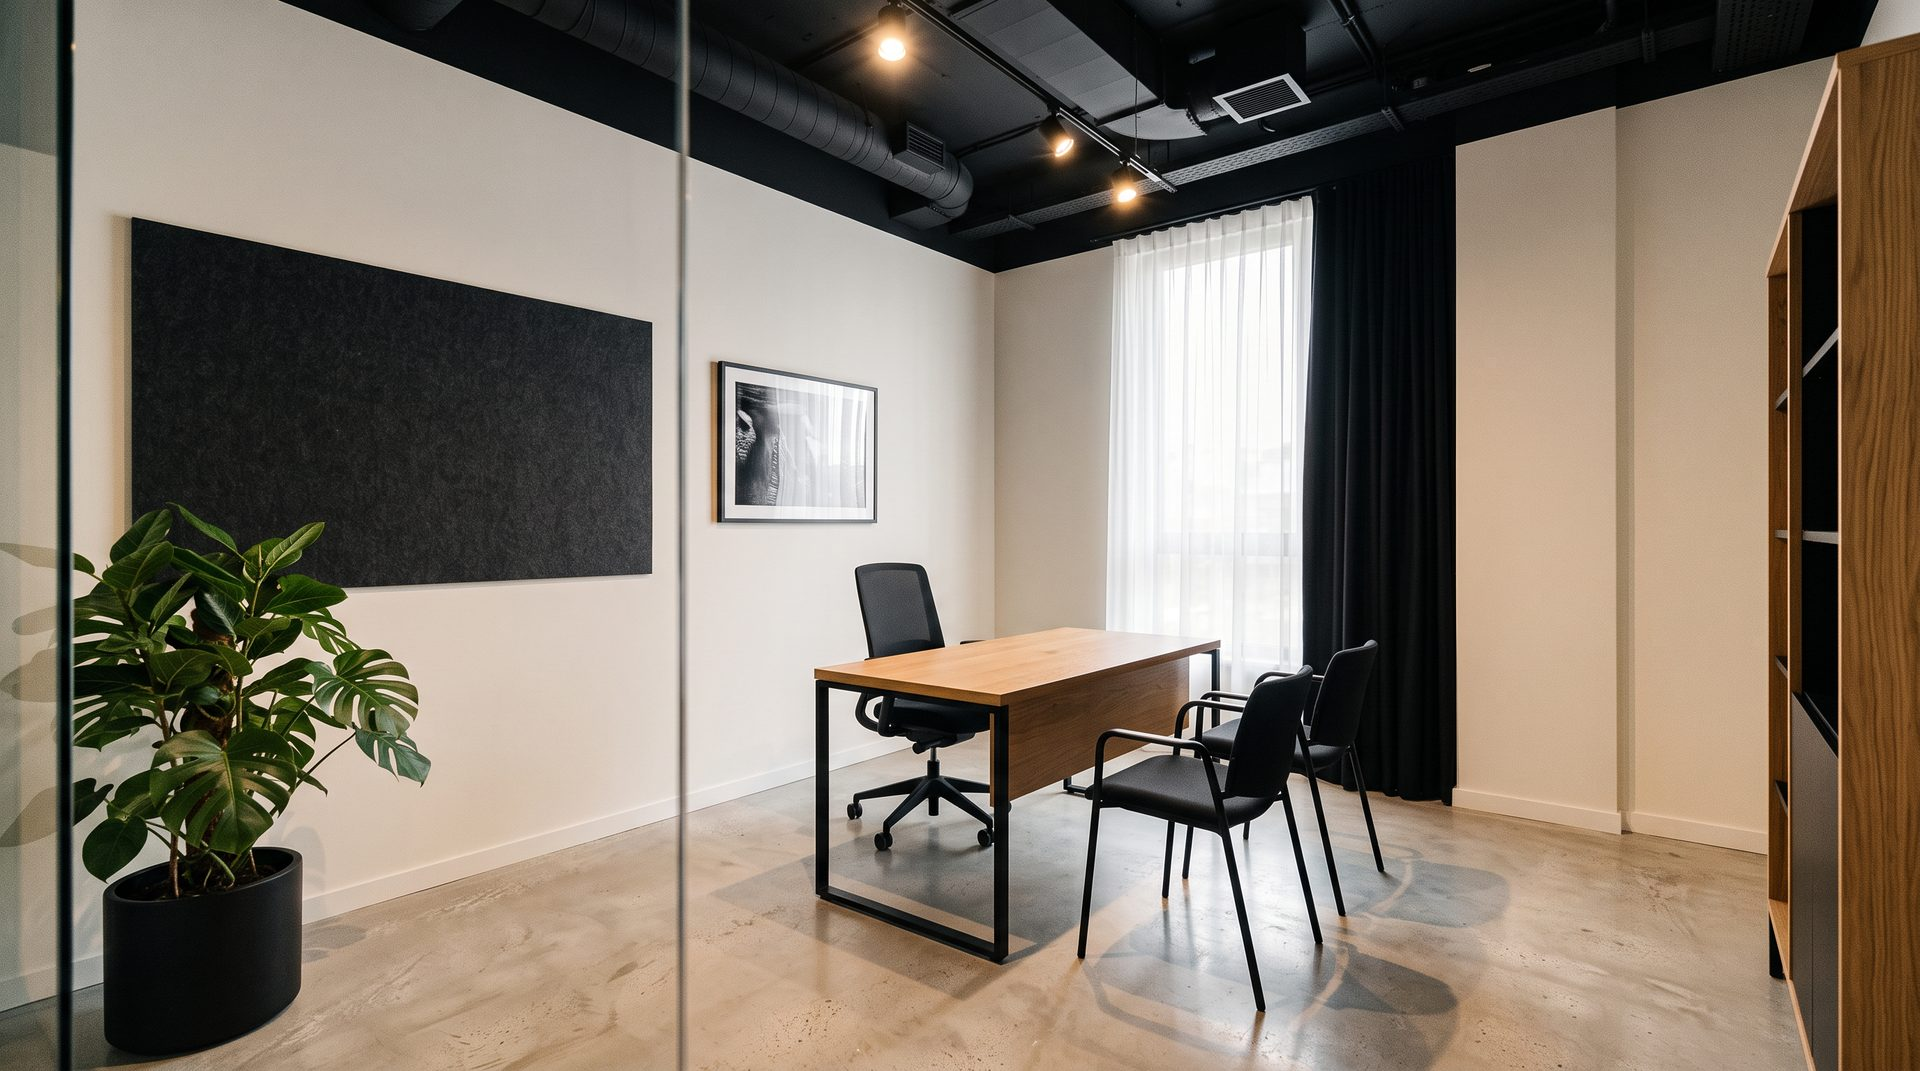
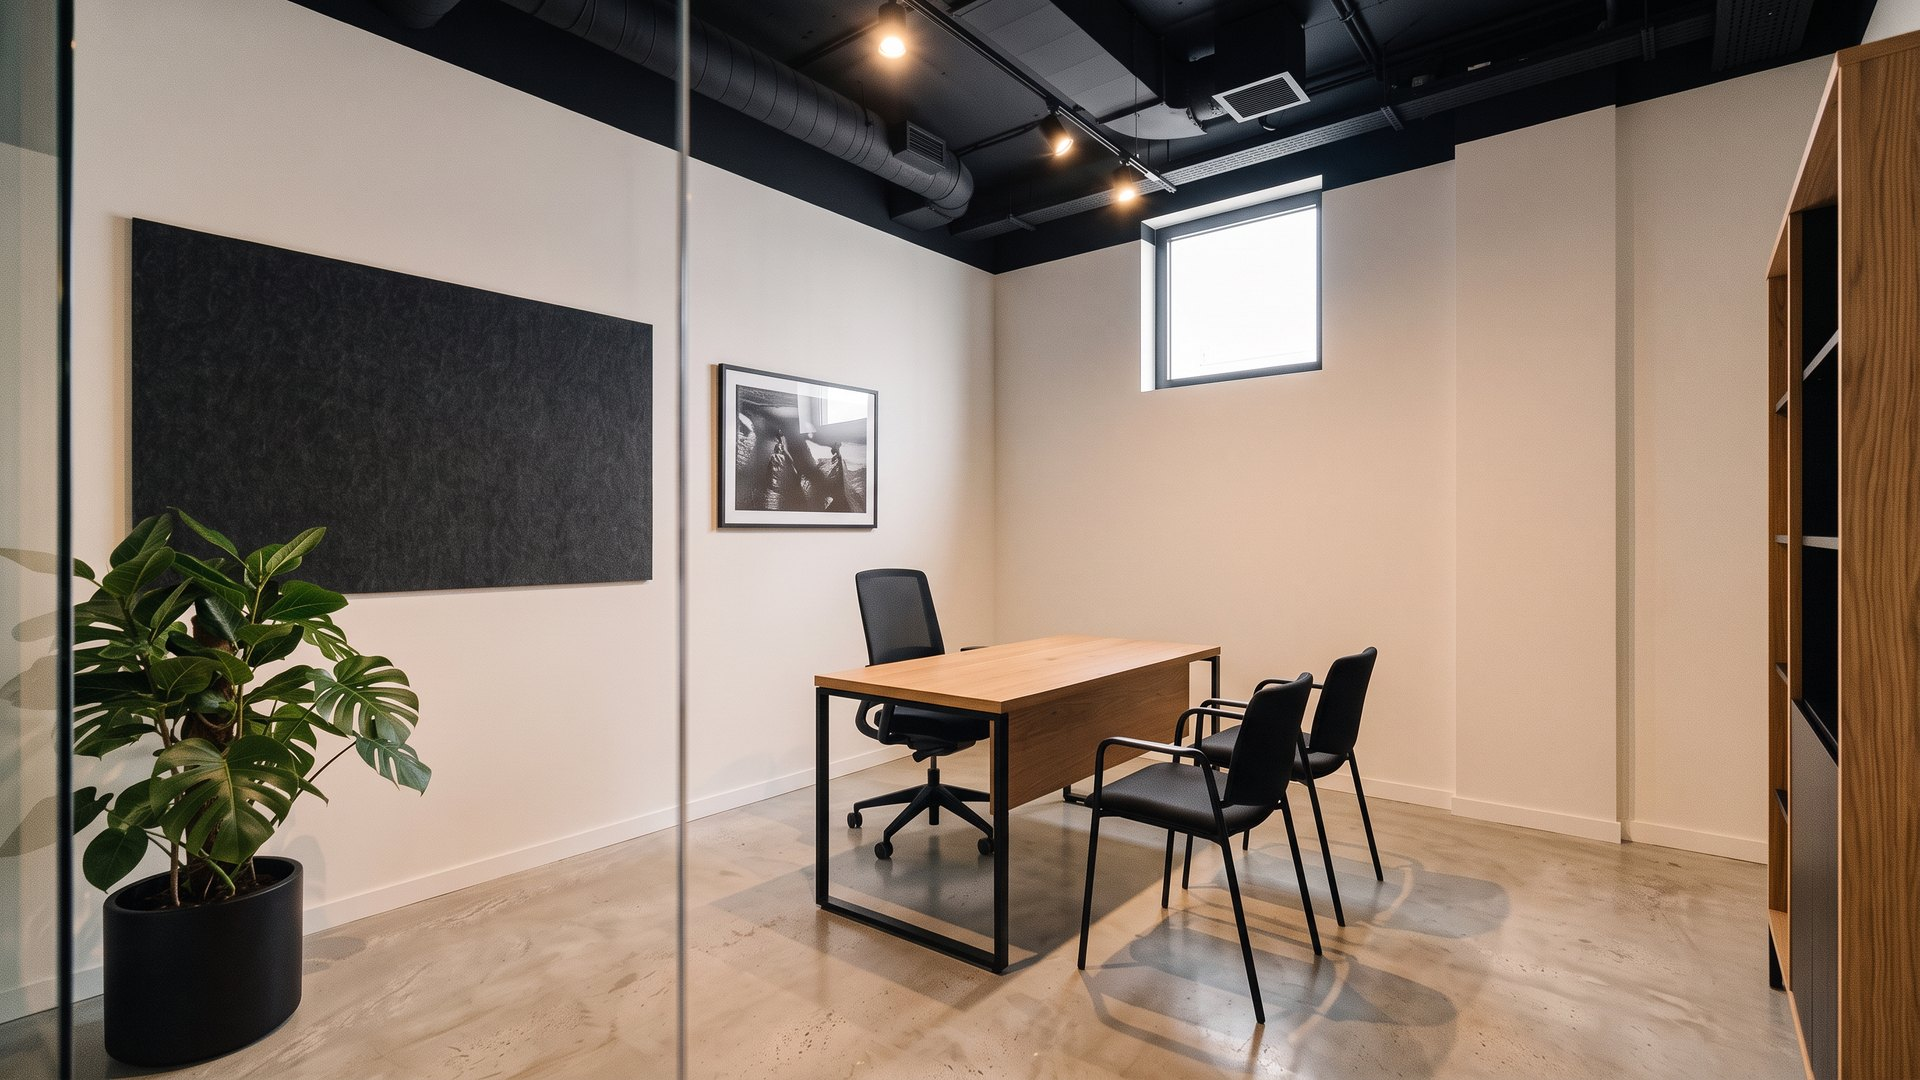
Plano en tonos pastel, botón de pantalla completa en el visor 3D y render de la oficina con ventana alta
Claude-Session: https://claude.ai/code/session_01VpsP89JKDyhT3TceQQtrQt

diff --git a/index.html b/index.html
@@ -48,11 +48,21 @@ h2{font-family:var(--font-display);font-weight:600;font-size:20px;margin:0 0 12p
 .chk{display:inline-flex;gap:6px;align-items:center;font-size:13px;color:var(--ink-2);cursor:pointer}
 .chk input{accent-color:var(--accent)}
 .lbl{font-family:var(--font-mono);font-size:11px;color:var(--ink-2);text-transform:uppercase;letter-spacing:.05em}
-#plan{display:block;width:100%;height:auto;max-height:78vh;touch-action:manipulation}
+#plan{display:block;width:100%;height:auto;max-height:78vh;touch-action:manipulation;background:#FAF9F5;--prod:#F6E3A3;--work:#C8D3F5;--serv:#E2E4EF;--circ:#F3F4F9;--open:#E7EBF9;--wall:#1B1E3D;--wall-new:#5A6091;--wood:#D9BC8C;--soft:#9A9FC0;--green:#9CC58A;--glass:#4E6BD0;--ink:#1B1E3D;--ink-2:#4A4F78;--sheet:#FFFFFF;--rule:#D3D6E6}
+.legend{--prod:#F6E3A3;--work:#C8D3F5;--serv:#E2E4EF;--circ:#F3F4F9;--open:#E7EBF9;--wall:#1B1E3D;--wall-new:#5A6091;--wood:#D9BC8C;--soft:#9A9FC0;--green:#9CC58A;--glass:#4E6BD0}
+.legend .sw{border-color:#6A6FA0}
 #three{width:100%;display:none;flex-direction:column}
 #cv3d{position:relative;aspect-ratio:16/9;width:100%;touch-action:none}
 #cv3d canvas{display:block;width:100%;height:100%}
 .bar3d{display:flex;flex-wrap:wrap;gap:10px 14px;align-items:center;padding:10px 12px;border-bottom:1px solid var(--rule)}
+.fsbtn{margin-left:auto;display:inline-flex;align-items:center;gap:7px;font:inherit;font-size:13px;padding:7px 12px;border-radius:9px;border:1px solid var(--rule);background:var(--sheet-2);color:var(--ink);cursor:pointer}
+.fsbtn:hover{border-color:var(--sun)} .fsbtn:focus-visible{outline:2px solid var(--sun);outline-offset:2px}
+.fsbtn .fs-off{display:none} #three.fs .fsbtn .fs-on{display:none} #three.fs .fsbtn .fs-off{display:inline}
+#three.fs{position:fixed;inset:0;z-index:1000;background:var(--paper);width:100vw;height:100vh;height:100dvh;padding:env(safe-area-inset-top) env(safe-area-inset-right) env(safe-area-inset-bottom) env(safe-area-inset-left)}
+#three.fs #cv3d{aspect-ratio:auto!important;height:auto!important;min-height:0!important;flex:1 1 auto}
+#three.fs .views3d{flex:none}
+body.fs-lock{overflow:hidden}
+@media(max-width:640px){.fsbtn span{display:none}.fsbtn{padding:7px 9px}}
 .views3d{display:flex;gap:8px;overflow-x:auto;padding:10px 12px;border-top:1px solid var(--rule);scrollbar-width:none}.views3d::-webkit-scrollbar{display:none}
 .views3d button{flex:none;font:inherit;font-size:13px;padding:7px 12px;border-radius:6px;border:1px solid var(--rule);background:var(--sheet);color:var(--ink);cursor:pointer}
 .hint3d{position:absolute;right:10px;bottom:12px;font-size:12px;color:var(--ink-2);background:var(--sheet);padding:3px 8px;border-radius:6px;border:1px solid var(--rule)}
@@ -157,6 +167,7 @@ ul.notes li span{color:var(--ink-2)}
           <button id="n-orbit" aria-pressed="true">Maqueta</button><button id="n-walk" aria-pressed="false">Caminar</button><button id="n-tour" aria-pressed="false">Recorrido guiado</button>
         </div>
         <label class="chk" id="ceilwrap"><input type="checkbox" id="ceil" checked> Ductos y parrillas</label>
+        <button id="fs3d" class="fsbtn" type="button" aria-pressed="false" aria-label="Pantalla completa" title="Pantalla completa"><svg width="16" height="16" viewBox="0 0 16 16" fill="none" stroke="currentColor" stroke-width="1.8" stroke-linecap="round"><path class="fs-on" d="M1.5 5.5v-4h4M10.5 1.5h4v4M14.5 10.5v4h-4M5.5 14.5h-4v-4"/><path class="fs-off" d="M5.5 1.5v4h-4M14.5 5.5h-4v-4M10.5 14.5v-4h4M1.5 10.5h4v4"/></svg><span>Pantalla completa</span></button>
       </div>
       <div id="cv3d">
         <div class="caption3d" id="cap3d" hidden><b id="capT"></b><span id="capD"></span></div>
@@ -225,7 +236,7 @@ ul.notes li span{color:var(--ink-2)}
 const DATA = {"W": 7.78, "D": 14.0, "existWalls": [[-0.2, -1.4, 0, 12.65], [-0.2, 13.65, 0, 14.2], [7.78, -1.4, 7.98, 14.2], [-0.2, -1.4, 7.98, -1.2], [-0.2, -0.2, 1.53, 0], [6.37, -0.2, 7.78, 0], [-0.2, 14.0, 6.88, 14.2], [0, 4.3, 0.1, 4.7], [0, 11.53, 0.15, 12.3], [7.62, 11.53, 7.78, 12.3], [6.37, 0, 6.57, 0.74], [6.37, 1.5, 6.57, 4.27], [6.57, 2.05, 7.78, 2.25], [7.26, 4.06, 7.78, 4.27], [4.71, 1.5, 4.91, 3.76], [4.71, 3.56, 6.37, 3.76], [5.65, 1.5, 6.37, 1.7], [6.21, 8.52, 7.78, 8.72], [6.21, 8.72, 6.41, 9.21], [6.21, 9.9, 7.78, 10.11], [0, 9.95, 3.0, 10.15]], "glass": [[2.53, -0.17, 6.37, -0.03], [-0.17, 12.65, -0.03, 13.65]], "balcony": [0, -1.2, 7.78, -0.2], "existDoors": [{"gap": [1.53, -0.2, 2.53, 0], "hinge": [1.56, -0.2], "r": 0.95, "a0": 0, "a1": -90}, {"gap": [6.37, 0.74, 6.57, 1.5], "hinge": [6.57, 1.5], "r": 0.74, "a0": -90, "a1": 0}, {"gap": [6.57, 4.06, 7.26, 4.27], "hinge": [6.6, 4.17], "r": 0.66, "a0": 0, "a1": -90}, {"gap": [6.21, 9.21, 6.41, 9.9], "hinge": [6.31, 9.9], "r": 0.67, "a0": -90, "a1": 0}, {"gap": [6.88, 14.0, 7.78, 14.2], "hinge": [7.73, 14.0], "r": 0.85, "a0": 180, "a1": 270}], "fixtures": [{"t": "wc", "r": [7.3, 1.62, 7.78, 2.02]}, {"t": "wc", "r": [7.3, 2.42, 7.78, 2.82]}, {"t": "wc", "r": [7.3, 8.82, 7.78, 9.22]}, {"t": "sink", "r": [7.35, 0.25, 7.78, 0.75]}, {"t": "sink", "r": [7.3, 3.2, 7.78, 3.75]}, {"t": "sink", "r": [7.35, 9.35, 7.78, 9.8]}], "prop": {"walls": [{"r": [0, 4.7, 4.91, 4.8], "k": "glass"}, {"r": [4.91, 3.76, 5.01, 3.86], "k": "glass"}, {"r": [4.91, 4.66, 5.01, 4.8], "k": "glass"}, {"r": [4.91, 4.8, 5.01, 8.85], "k": "glass"}, {"r": [4.91, 9.85, 5.01, 9.95], "k": "glass"}, {"r": [3.0, 9.95, 5.01, 10.15], "k": "glass"}, {"r": [3.6, 10.15, 3.7, 10.3], "k": "glass"}, {"r": [3.6, 11.15, 3.7, 14.0], "k": "glass"}, {"r": [6.21, 5.1, 7.78, 5.2], "k": "glass"}, {"r": [6.21, 5.2, 6.31, 7.4], "k": "glass"}, {"r": [6.21, 8.25, 6.31, 8.52], "k": "glass"}], "doors": [{"gap": [4.91, 3.86, 5.01, 4.66], "hinge": [4.91, 4.66], "r": 0.8, "a0": -90, "a1": -180, "glass": false}, {"gap": [4.91, 8.85, 5.01, 9.85], "hinge": [4.91, 9.85], "r": 1.0, "a0": -90, "a1": -180, "glass": true}, {"gap": [3.6, 10.3, 3.7, 11.15], "hinge": [3.6, 10.3], "r": 0.85, "a0": 90, "a1": 180, "glass": true}, {"gap": [6.21, 7.4, 6.31, 8.25], "hinge": [6.31, 8.25], "r": 0.85, "a0": -90, "a1": 0, "glass": false}], "rooms": [{"id": "musica", "name": "Sala de m\u00fasica y podcast", "type": "prod", "rects": [[0, 0, 4.71, 4.7], [4.71, 0, 6.37, 1.5], [4.91, 1.7, 6.37, 3.56], [4.71, 3.76, 4.91, 4.7]], "label_at": [1.75, 0.58], "lines": ["Sala de m\u00fasica", "y podcast"], "uses": "Dos modos: set de podcast (mesa redonda, 3 micr\u00f3fonos, 2 c\u00e1maras) o clase con 8 mesitas y 8 sillas mirando al teclado y la pantalla. Bater\u00eda sobre tarima aislada y rinc\u00f3n de control en el nicho, fijos.", "enc": "Muros existentes; vidrio ac\u00fastico doble hacia el estudio y el pasillo, con cortina negra", "area": 27.5}, {"id": "estudio", "name": "Estudio multiprop\u00f3sito", "type": "prod", "rects": [[0, 4.8, 4.91, 9.95]], "label_at": [2.45, 7.2], "label_clase": [2.45, 9.0], "lines": ["Estudio", "multiprop\u00f3sito"], "uses": "Fotos de cuerpo entero con fondo de papel de 2.72 m, set de entrevistas con dos sillones, aula para 8 alumnos.", "enc": "Vidrio ac\u00fastico con cortina hacia la sala de m\u00fasica, el pasillo y el lobby; el fondo de papel tapa el vidrio norte", "area": 25.3}, {"id": "oficina", "name": "Oficina", "type": "work", "rects": [[0, 10.15, 3.6, 14.0]], "label_at": [1.8, 11.15], "lines": ["Oficina"], "uses": "Escritorio, dos sillas de visita y archivo. \u00danica ventana al oeste: cuadrada, alta, pegada al techo.", "enc": "Divisiones de vidrio con cortina", "area": 13.7}, {"id": "lobby", "name": "Lobby y recepci\u00f3n", "type": "work", "rects": [[3.7, 10.15, 7.78, 14.0], [5.01, 10.11, 7.78, 10.15]], "label_at": [5.2, 11.95], "lines": ["Lobby y", "recepci\u00f3n"], "uses": "Mostrador de recepci\u00f3n en la esquina noreste con el logo detr\u00e1s, sof\u00e1 de espera junto a la oficina.", "enc": "Abierto al pasillo", "area": 15.7}, {"id": "pasillo", "name": "Pasillo", "type": "circ", "rects": [[5.01, 3.76, 6.37, 4.27], [5.01, 4.27, 6.21, 10.11], [6.21, 4.27, 7.78, 5.1]], "label_at": [5.3, 6.6], "lines": ["Pasillo"], "vertical": true, "uses": "Conecta el lobby con todas las \u00e1reas. Ancho libre 1.20 m.", "enc": "\u2014", "area": 9.0}, {"id": "bodega", "name": "Bodega de equipos", "type": "serv", "rects": [[6.31, 5.2, 7.78, 8.52]], "label_at": [7.05, 6.25], "lines": ["Bodega"], "uses": "Luces, tr\u00edpodes, rollos de fondo, sillas plegables del aula.", "enc": "Vidrio esmerilado y puerta", "area": 4.9}, {"id": "b1", "name": "Ba\u00f1o 1", "type": "serv", "rects": [[6.57, 0, 7.78, 2.05]], "label_at": [7.17, 1.2], "lines": ["Ba\u00f1o"], "uses": "Existente, se entra por la sala de m\u00fasica.", "enc": "Existente", "area": 2.5}, {"id": "b2", "name": "Ba\u00f1o 2", "type": "serv", "rects": [[6.57, 2.25, 7.78, 4.06]], "label_at": [7.0, 2.7], "lines": ["Ba\u00f1o"], "uses": "Existente, ba\u00f1o de visitas desde el pasillo.", "enc": "Existente", "area": 2.2}, {"id": "zoe", "name": "Ba\u00f1o y maquillaje", "type": "serv", "rects": [[6.41, 8.72, 7.78, 9.9]], "label_at": [6.85, 9.05], "lines": ["Ba\u00f1o"], "uses": "Ba\u00f1o existente (Hab. Zoe) con espejo de maquillaje, junto al estudio.", "enc": "Existente", "area": 1.6}], "furn": [{"t": "riser", "r": [2.7, 0.4, 4.55, 2.2]}, {"t": "drums", "r": [3.0, 0.65, 4.25, 1.85]}, {"t": "chair", "r": [3.41, 1.84, 3.83, 2.26]}, {"t": "keys", "r": [0.12, 0.55, 0.52, 1.95]}, {"t": "chair", "r": [0.64, 1.04, 1.06, 1.46]}, {"t": "amp", "r": [0.15, 2.15, 0.55, 2.55]}, {"t": "panel", "r": [0.0, 2.75, 0.08, 4.55]}, {"t": "panel", "r": [1.0, 4.62, 2.8, 4.7]}, {"t": "desk", "r": [5.8, 1.75, 6.37, 3.45], "label": "Control"}, {"t": "chair", "r": [5.16, 2.36, 5.64, 2.84]}, {"t": "shelf", "r": [0.25, 10.15, 2.85, 10.55]}, {"t": "desk", "r": [1.15, 12.15, 1.9, 13.75]}, {"t": "chair", "r": [0.48, 12.71, 0.96, 13.19]}, {"t": "chair", "r": [2.11, 12.31, 2.59, 12.79]}, {"t": "chair", "r": [2.11, 13.11, 2.59, 13.59]}, {"t": "plant", "r": [2.93, 13.38, 3.37, 13.82]}, {"t": "counter", "r": [6.45, 10.2, 7.05, 11.45], "label": "Recepci\u00f3n"}, {"t": "counter", "r": [6.45, 10.2, 7.3, 10.7]}, {"t": "chair", "r": [7.18, 10.76, 7.66, 11.24]}, {"t": "logo", "r": [7.7, 10.3, 7.78, 11.25]}, {"t": "sofa", "r": [3.8, 13.42, 5.4, 13.97]}, {"t": "ctable", "r": [4.25, 12.75, 4.95, 13.15]}, {"t": "plant", "r": [5.53, 13.48, 5.97, 13.92]}, {"t": "plant", "r": [3.83, 11.53, 4.27, 11.97]}, {"t": "shelf", "r": [7.4, 5.3, 7.78, 8.45]}, {"t": "shelf", "r": [6.31, 5.3, 6.66, 7.25]}, {"t": "mirror", "r": [6.45, 9.0, 6.55, 9.75]}], "curtains": [[4.82, 4.85, 4.82, 8.8], [3.45, 11.2, 3.45, 13.95], [2.55, 0.18, 4.7, 0.18], [0.2, 4.58, 4.85, 4.58], [3.05, 9.82, 4.85, 9.82], [6.45, 5.32, 6.45, 7.35]], "studio": {"common": [{"t": "backdrop", "r": [1.1, 4.82, 3.82, 5.0]}], "foto": [{"t": "sweep", "r": [1.1, 5.0, 3.82, 6.7]}, {"t": "armchair", "r": [1.55, 5.75, 2.15, 6.35]}, {"t": "armchair", "r": [2.8, 5.75, 3.4, 6.35]}, {"t": "ctable", "r": [2.3, 5.85, 2.65, 6.2]}, {"t": "light", "r": [0.35, 5.9, 0.75, 6.3]}, {"t": "light", "r": [4.15, 5.9, 4.55, 6.3]}, {"t": "light", "r": [0.55, 8.0, 0.95, 8.4]}, {"t": "light", "r": [3.95, 8.0, 4.35, 8.4]}, {"t": "cam", "r": [1.4, 8.55, 1.7, 8.85], "a": -90}, {"t": "cam", "r": [2.33, 9.25, 2.63, 9.55], "a": -90}, {"t": "cam", "r": [3.25, 8.55, 3.55, 8.85], "a": -90}, {"t": "cart", "r": [0.1, 8.6, 0.6, 9.8]}], "clase": [{"t": "screen", "r": [1.1, 5.02, 3.82, 5.08]}, {"t": "desk", "r": [1.75, 5.45, 3.15, 6.05], "label": "Profesor"}, {"t": "chair", "r": [2.24, 5.04, 2.66, 5.46]}, {"t": "tchair", "r": [0.75, 6.75, 1.35, 7.35]}, {"t": "tchair", "r": [1.65, 6.75, 2.25, 7.35]}, {"t": "tchair", "r": [2.65, 6.75, 3.25, 7.35]}, {"t": "tchair", "r": [3.55, 6.75, 4.15, 7.35]}, {"t": "tchair", "r": [0.75, 7.85, 1.35, 8.45]}, {"t": "tchair", "r": [1.65, 7.85, 2.25, 8.45]}, {"t": "tchair", "r": [2.65, 7.85, 3.25, 8.45]}, {"t": "tchair", "r": [3.55, 7.85, 4.15, 8.45]}, {"t": "cart", "r": [0.1, 8.6, 0.6, 9.8]}]}, "music": {"podcast": [{"t": "round", "r": [0.95, 2.75, 2.35, 4.15], "label": "Mesa de podcast"}, {"t": "chair", "r": [0.34, 3.21, 0.82, 3.69]}, {"t": "chair", "r": [2.48, 3.21, 2.96, 3.69]}, {"t": "chair", "r": [1.41, 4.19, 1.89, 4.67]}, {"t": "cam", "r": [3.6, 3.3, 3.9, 3.6], "a": 180}, {"t": "cam", "r": [1.5, 2.1, 1.8, 2.4], "a": 90}, {"t": "light", "r": [3.15, 4.05, 3.55, 4.45]}, {"t": "light", "r": [0.2, 4.1, 0.6, 4.5]}], "clase": [{"t": "screen", "r": [0.15, 0.02, 1.4, 0.08]}, {"t": "round", "r": [4.95, 0.12, 6.15, 1.32], "label": "Mesa podcast"}, {"t": "desk", "r": [0.4, 2.45, 1.1, 2.8]}, {"t": "chair", "r": [0.55, 2.85, 0.95, 3.25]}, {"t": "desk", "r": [1.4, 2.45, 2.1, 2.8]}, {"t": "chair", "r": [1.55, 2.85, 1.95, 3.25]}, {"t": "desk", "r": [2.4, 2.45, 3.1, 2.8]}, {"t": "chair", "r": [2.55, 2.85, 2.95, 3.25]}, {"t": "desk", "r": [3.4, 2.45, 4.1, 2.8]}, {"t": "chair", "r": [3.55, 2.85, 3.95, 3.25]}, {"t": "desk", "r": [0.4, 3.45, 1.1, 3.8]}, {"t": "chair", "r": [0.55, 3.85, 0.95, 4.25]}, {"t": "desk", "r": [1.4, 3.45, 2.1, 3.8]}, {"t": "chair", "r": [1.55, 3.85, 1.95, 4.25]}, {"t": "desk", "r": [2.4, 3.45, 3.1, 3.8]}, {"t": "chair", "r": [2.55, 3.85, 2.95, 4.25]}, {"t": "desk", "r": [3.4, 3.45, 4.1, 3.8]}, {"t": "chair", "r": [3.55, 3.85, 3.95, 4.25]}]}, "flow": {"main": [[7.33, 13.85], [6.9, 12.4], [5.61, 11.2], [5.61, 4.05], [5.0, 4.26]], "branches": [{"to": "Estudio", "p": [[5.61, 9.35], [4.85, 9.35]]}, {"to": "Oficina", "p": [[5.61, 10.62], [3.75, 10.62]]}, {"to": "Bodega", "p": [[5.61, 7.82], [6.35, 7.82]]}, {"to": "Ba\u00f1o", "p": [[5.61, 9.55], [6.3, 9.55]]}, {"to": "Ba\u00f1o", "p": [[5.61, 4.65], [6.92, 4.65], [6.92, 4.22]]}]}}, "actual": {"rooms": [{"name": "Espacio abierto", "type": "open", "rects": [[0, 0, 4.71, 1.5], [0, 1.5, 4.71, 3.76], [4.71, 0, 6.37, 1.5], [0, 3.76, 6.37, 4.27], [0, 4.27, 6.21, 8.52], [6.21, 4.27, 7.78, 8.52], [0, 8.52, 6.21, 10.11], [0, 10.11, 7.78, 14.0]], "label_at": [2.6, 6.6], "dims": "7.78 \u00d7 14.00 bruto", "area": 95.8}, {"name": "Nicho / ducto", "type": "service", "rects": [[4.91, 1.7, 6.37, 3.56]], "short": "Nicho", "area": 2.7}, {"name": "Ba\u00f1o 1", "type": "service", "rects": [[6.57, 0, 7.78, 2.05]], "area": 2.5}, {"name": "Ba\u00f1o 2", "type": "service", "rects": [[6.57, 2.25, 7.78, 4.06]], "area": 2.2}, {"name": "Ba\u00f1o Hab. Zoe", "type": "service", "rects": [[6.41, 8.72, 7.78, 9.9]], "short": "Zoe", "area": 1.6}]}};
 const SVGNS = "http://www.w3.org/2000/svg";
 const state = { scen: "prop", view: "2d", mode: "foto", music: "podcast", flow: true, ceil: true, sel: "estudio" };
-const css = n => getComputedStyle(document.documentElement).getPropertyValue(n).trim();
+const css = n => getComputedStyle(document.getElementById("plan") || document.documentElement).getPropertyValue(n).trim();
 const TYPE_FILL = { prod: "--prod", work: "--work", serv: "--serv", circ: "--circ", open: "--open" };
 const TYPE_NAME = { prod: "Producción", work: "Trabajo y público", serv: "Servicios", circ: "Circulación", open: "Espacio abierto" };
 
@@ -496,7 +507,7 @@ drawLegend(); syncUI(); render();
 const RENDERS = [
   ["00-isometrica.jpg", "Vista isométrica", "El local completo, sin techo, con todas las áreas."],
   ["01-lobby.jpg", "Lobby y recepción", "Mostrador en la esquina noreste; vidrio hacia el estudio."],
-  ["02-oficina.jpg", "Oficina", "Divisiones de vidrio y la única ventana del local."],
+  ["02-oficina.jpg", "Oficina", "Divisiones de vidrio y la única ventana: cuadrada, alta, pegada al techo."],
   ["03-pasillo.jpg", "Pasillo central", "Estudio a la izquierda, bodega y baño a la derecha."],
   ["04-estudio.jpg", "Estudio y set de entrevistas", "Fondo de papel, sillones, cámaras y luces."],
   ["05-musica.jpg", "Sala de música", "Batería electrónica sobre tarima junto al balcón."],
@@ -552,6 +563,20 @@ function init() {
     vb.appendChild(b);
   });
   new ResizeObserver(resize).observe(cvHost);
+  { // pantalla completa: API nativa cuando existe; en iPhone, modo fijo a toda la ventana
+    const host3 = document.getElementById("three"), btn = document.getElementById("fs3d");
+    const native = !!(host3.requestFullscreen || host3.webkitRequestFullscreen);
+    const setUI = on => { host3.classList.toggle("fs", on); document.body.classList.toggle("fs-lock", on); btn.setAttribute("aria-pressed", on); btn.querySelector("span").textContent = on ? "Salir" : "Pantalla completa"; btn.title = on ? "Salir de pantalla completa (Esc)" : "Pantalla completa"; setTimeout(resize, 60); };
+    const isNative = () => (document.fullscreenElement || document.webkitFullscreenElement) === host3;
+    btn.onclick = () => {
+      const on = host3.classList.contains("fs");
+      if (!on) { if (native) { const r = (host3.requestFullscreen || host3.webkitRequestFullscreen).call(host3); if (r && r.catch) r.catch(() => setUI(true)); } setUI(true); }
+      else { if (isNative()) (document.exitFullscreen || document.webkitExitFullscreen).call(document); setUI(false); }
+    };
+    const onChange = () => { if (!isNative() && host3.classList.contains("fs") && native) setUI(false); };
+    document.addEventListener("fullscreenchange", onChange); document.addEventListener("webkitfullscreenchange", onChange);
+    window.addEventListener("keydown", e => { if (e.key === "Escape" && host3.classList.contains("fs") && !isNative()) setUI(false); });
+  }
   controls.addEventListener("start", () => { nav.userMoved = true; });
   resize();
   setupNav();
